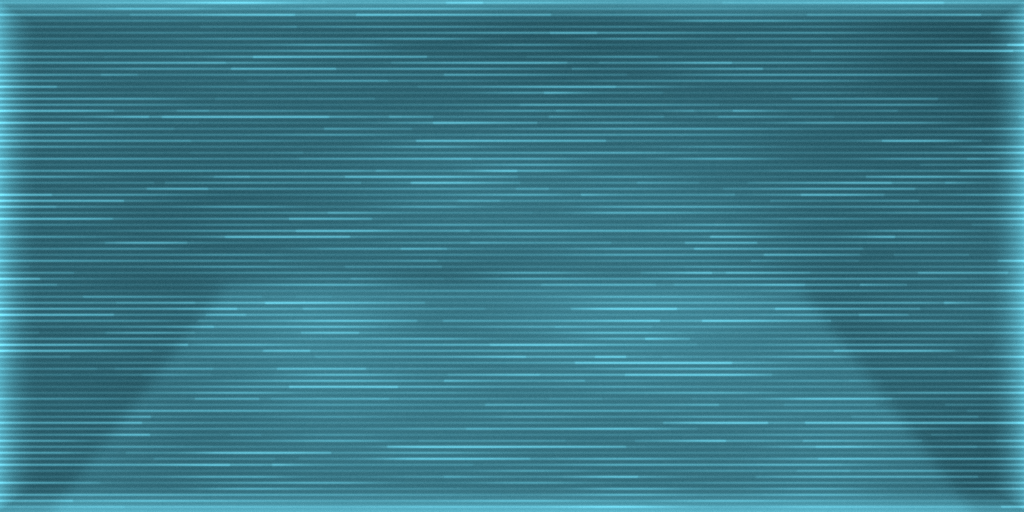
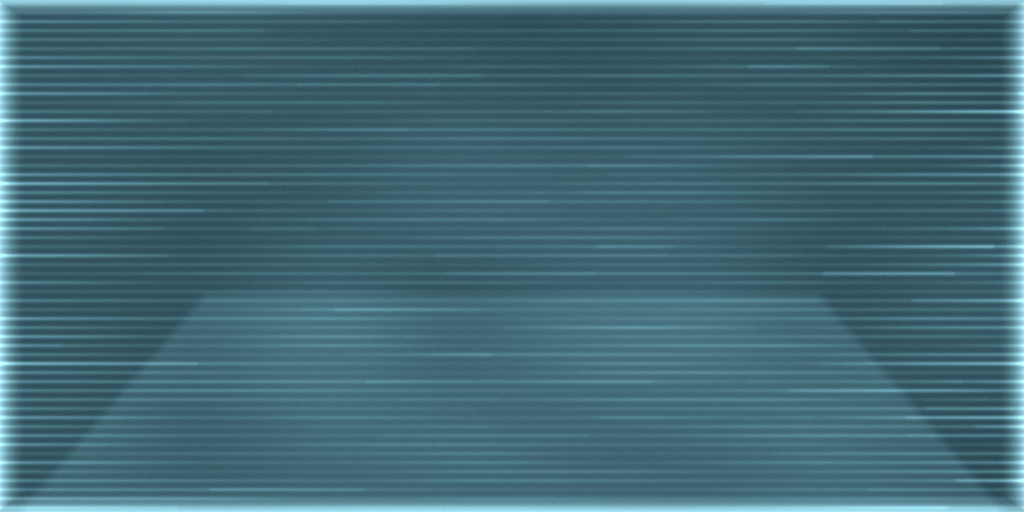
Civic terminal: paler glass, bands burning at the edges, outer glow
Claude-Session: https://claude.ai/code/session_01Xh8YVvDeeA2XHpLWcrrpWg

diff --git a/network2/branding/make_terminal_assets.py b/network2/branding/make_terminal_assets.py
@@ -40,48 +40,50 @@ def smooth_noise(w, h, cell, seed):
 
 W, H = 1024, 512
 y, x = np.mgrid[0:H, 0:W].astype(float)
-cyan = np.array([120, 214, 232])
+# pale, cold, not saturated (the glass of the Alyx stations is nearly white-cyan where it is lit)
+cyan = np.array([150, 214, 228])
 
-# the haze: brighter in the middle, a slow wave of light across
-haze = 0.34 + 0.22 * np.exp(-(((x - W * 0.5) / (W * 0.62)) ** 2 + ((y - H * 0.48) / (H * 0.75)) ** 2))
+# the haze: a little more light in the middle
+haze = 0.16 + 0.10 * np.exp(-(((x - W * 0.5) / (W * 0.6)) ** 2 + ((y - H * 0.45) / (H * 0.8)) ** 2))
 haze *= 0.85 + 0.3 * smooth_noise(W, H, 128, 5)
 
-# scan streaks: every 6 px a soft line two pixels thick; its brightness drifts along it and
-# between lines, with long brighter runs (the streaks of the Alyx screens)
+# the scan bands: every 9 px a soft band three pixels thick; each band has its own brightness,
+# drifting along it with long brighter runs; towards the left and right edges they burn brighter
 streaks = np.zeros((H, W))
-for row in range(2, H, 6):
-    level = 0.25 + 0.55 * smooth_noise(W, 1, 96, row)[0] ** 1.6
+for row in range(3, H - 2, 9):
+    level = 0.22 + 0.5 * smooth_noise(W, 1, 140, row)[0] ** 1.4
     line = level.copy()
     pos = 0
     while pos < W:
-        length = int(rng.integers(30, 240))
-        if rng.random() < 0.35:
-            line[pos:pos + length] *= rng.uniform(1.3, 1.9)
-        pos += length + int(rng.integers(10, 120))
+        length = int(rng.integers(60, 320))
+        if rng.random() < 0.3:
+            line[pos:pos + length] *= rng.uniform(1.25, 1.7)
+        pos += length + int(rng.integers(20, 160))
     streaks[row] = line
-    streaks[row + 1] = line * 0.7
-    streaks[row - 1] += line * 0.18
-streaks = np.asarray(Image.fromarray(np.clip(streaks * 255, 0, 255).astype(np.uint8)).filter(
-    ImageFilter.GaussianBlur(0.8)), dtype=float) / 255
+    streaks[row - 1] += line * 0.55
+    streaks[row + 1] += line * 0.55
+    streaks[row + 2] += line * 0.15
+streaks = np.asarray(Image.fromarray(np.clip(streaks * 200, 0, 255).astype(np.uint8)).filter(
+    ImageFilter.GaussianBlur(1.1)), dtype=float) / 255
+edges = np.exp(-np.minimum(x, W - 1 - x) / 140)
+streaks *= 0.55 + 0.9 * edges
 
-# the perspective floor: a lighter trapezoid going away, with a few depth lines
+# the floor plane going away in the lower half: a lighter trapezoid with a clean far edge
 floor = Image.new("L", (W, H), 0)
 d = ImageDraw.Draw(floor)
-d.polygon([(int(W * 0.05), H), (int(W * 0.95), H), (int(W * 0.78), int(H * 0.56)), (int(W * 0.22), int(H * 0.56))],
-          fill=70)
-for k in range(1, 6):
-    yy = int(H * 0.56 + (H * 0.44) * (k / 6) ** 1.7)
-    d.line([(0, yy), (W, yy)], fill=110, width=1)
-floor = np.asarray(floor.filter(ImageFilter.GaussianBlur(6)), dtype=float) / 255
+d.polygon([(int(W * 0.02), H), (int(W * 0.98), H), (int(W * 0.8), int(H * 0.58)), (int(W * 0.2), int(H * 0.58))],
+          fill=60)
+d.line([(int(W * 0.2), int(H * 0.58)), (int(W * 0.8), int(H * 0.58))], fill=120, width=2)
+floor = np.asarray(floor.filter(ImageFilter.GaussianBlur(3)), dtype=float) / 255
 
-light = haze * 0.55 + streaks * 0.5 + floor * 0.35
-img = np.zeros((H, W, 3)) + np.array([10, 34, 42])
+light = haze + streaks * 0.62 + floor * 0.4
+img = np.zeros((H, W, 3)) + np.array([16, 34, 42])
 img += light[..., None] * cyan
 
-# grain, then the edges a little brighter (the rim of the glass)
-img += rng.normal(0, 2.0, (H, W, 1))
-rim = np.clip(1 - np.minimum(np.minimum(x, W - 1 - x) / 40, np.minimum(y, H - 1 - y) / 28), 0, 1) ** 2
-img += rim[..., None] * cyan * 0.35
+# grain, then the rim of the glass, bright
+img += rng.normal(0, 1.6, (H, W, 1))
+rim = np.clip(1 - np.minimum(np.minimum(x, W - 1 - x) / 26, np.minimum(y, H - 1 - y) / 20), 0, 1) ** 2
+img += rim[..., None] * np.array([190, 240, 250]) * 0.55
 Image.fromarray(np.clip(img, 0, 255).astype(np.uint8)).save(os.path.join(MAT, "wallpaper.png"), optimize=True)
 
 
